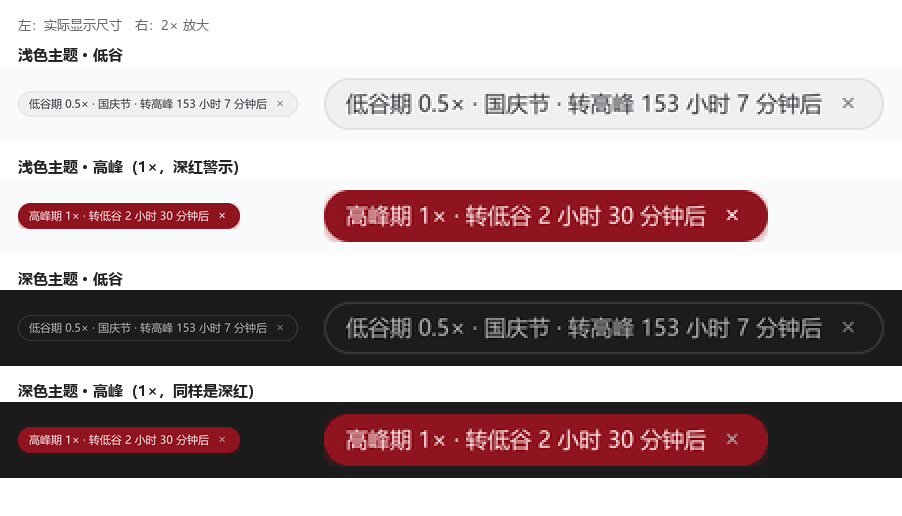
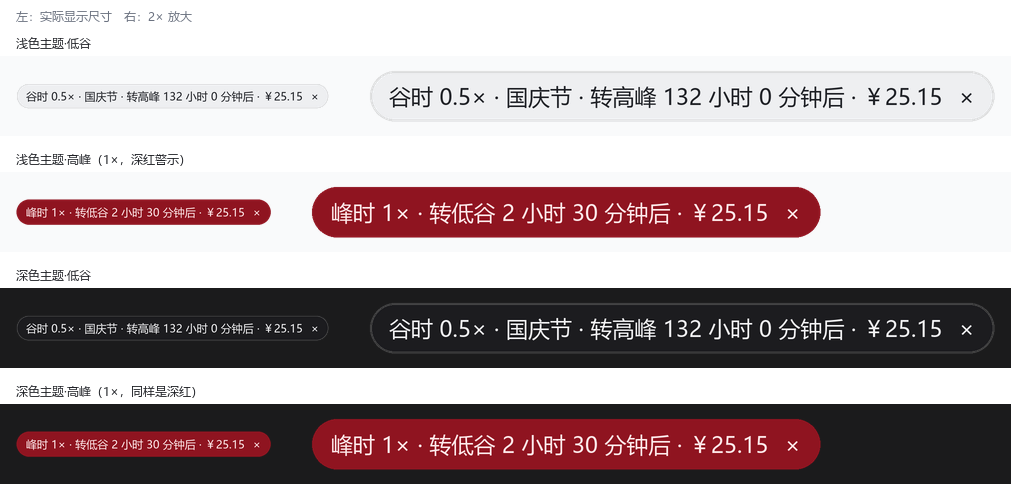
docs: 实测图替换为含余额片段的实拍，README 补余额说明
原实拍图拍摄于余额功能之前，角标文案里看不到 ·￥x.xx，与 README 的示例文案对不上。这里重新截取桌面版窗口标题栏（深色主题、低谷期、带余额），badge 特写同步替换；states 对照图按当前 BADGE_CSS 重新栅格化四态（四行都带余额，2× 放大不再被裁断，深色行标签改用深色字以免在白底上看不清）。

diff --git a/README.md b/README.md
@@ -4,16 +4,17 @@
 
 > **本插件适配 DeepSeek Harness 桌面版。** 角标默认贴在**视口顶边居中**（`top: 4px`，见 `applyDefaultPosition()`），在桌面版里这个落点正好是应用自绘的窗口标题栏 —— 也就是下图实拍的位置。Host 侧没有桌面专有依赖，但落位是按桌面版窗口设计的：浏览器版（DSH Web）没有这条标题栏，角标会贴到页面本身的最顶端，**未做适配与验证**。
 
-在 DeepSeek Harness **桌面版**窗口的**标题栏居中**常驻一个小角标（可拖动到任意位置），显示当前是否处于 DeepSeek API 的**错峰（低谷）优惠时段**、以及距下一次切换的倒计时。
+在 DeepSeek Harness **桌面版**窗口的**标题栏居中**常驻一个小角标（可拖动到任意位置），显示当前是否处于 DeepSeek API 的**错峰（低谷）优惠时段**、距下一次切换的倒计时，以及 **DeepSeek API 账户余额**。
 
 ![DeepSeek Harness 桌面版窗口标题栏中的峰谷角标](assets/screenshot-titlebar.png)
 
 <sub>角标位于窗口标题栏正中（低谷期实拍）。放大看：</sub>
 
-![角标细节：低谷期 0.5× · 国庆节 · 转高峰 153 小时 7 分钟后 ×](assets/screenshot-badge.png)
+![角标细节：谷时 0.5× · 转高峰 21 分钟后 · ￥25.13 ×](assets/screenshot-badge.png)
 
 - **高峰**：角标切成**深红底 + 近白文字**（浅色、深色主题都是这个深红）
 - **低谷**：低调中性底色，安静提示
+- **余额**：倒计时后带一段 `· ￥25.13`，零配置自动读取，查不到就不显示
 
 **本插件不改动任何背景色或主题令牌**，界面配色始终完全由主题决定；低谷态按主题分浅灰/深灰两套，高峰态不分主题、一律转深红。
 
@@ -21,7 +22,7 @@
 
 ![角标四种状态配色对照：浅色主题的低谷与高峰、深色主题的低谷与高峰](assets/screenshot-states.png)
 
-<sub>**非实拍**：按 `BADGE_CSS` 的真实尺寸（`11px` 字、`4px 10px` 内边距、`999px` 圆角）栅格化，铺在 DSH 真实的标题栏底色上（浅色 `#f9fafb` / 深色 `#1b1b1c`），左为实际显示尺寸、右为 2× 放大。深色主题下高峰同样是深红 —— 这一条是刻意如此的，见[「改配色」](#改配色)。</sub>
+<sub>**非实拍**：按 `BADGE_CSS` 的真实尺寸（`11px` 字、`4px 10px` 内边距、`999px` 圆角）栅格化，铺在 DSH 真实的标题栏底色上（浅色 `#f9fafb` / 深色 `#1b1b1c`），左为实际显示尺寸、右为 2× 放大；四行都带余额片段。深色主题下高峰同样是深红 —— 这一条是刻意如此的，见[「改配色」](#改配色)。</sub>
 
 判定口径来自 [DeepSeek API 官方定价页](https://api-docs.deepseek.com/quick_start/pricing)：
 
